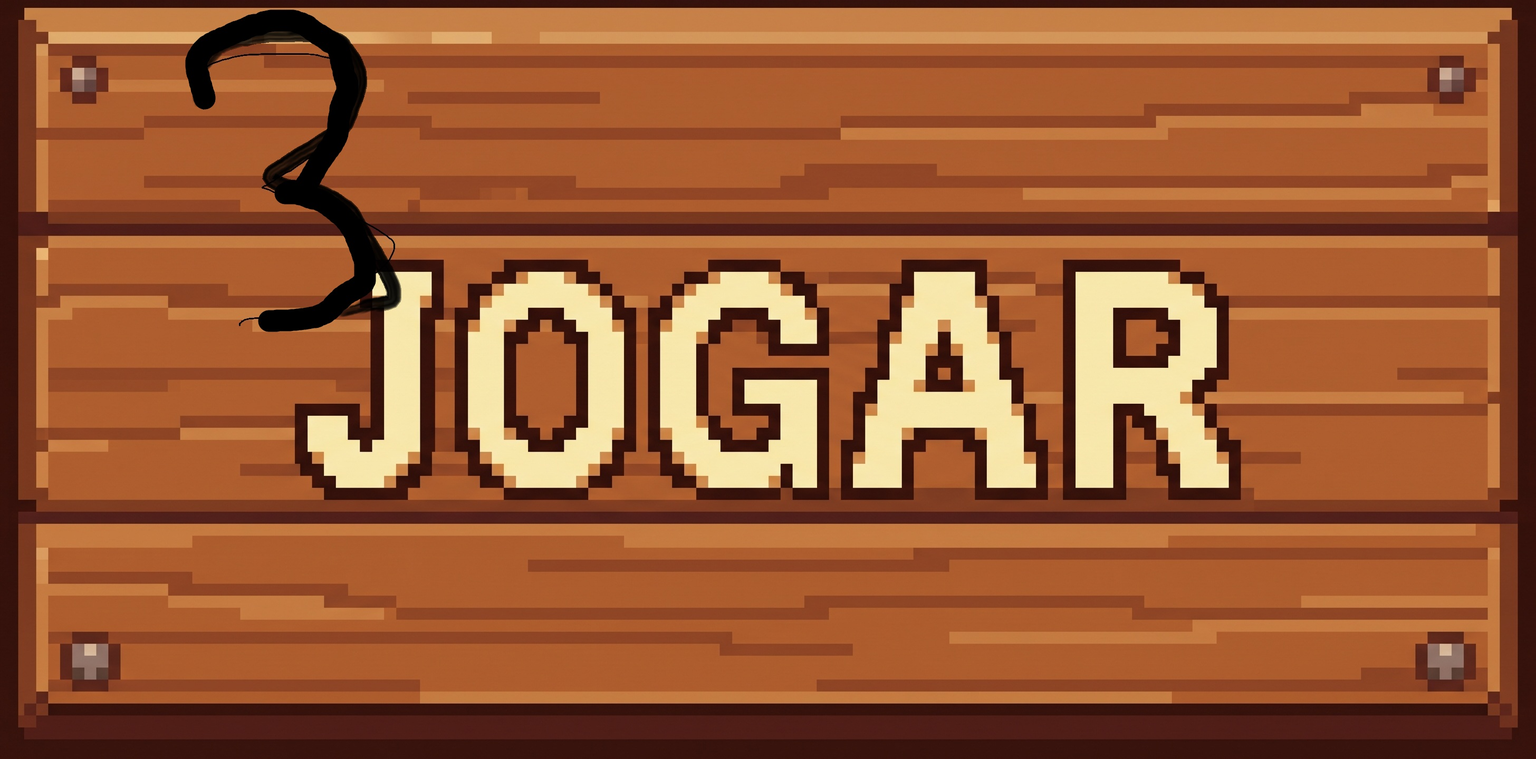
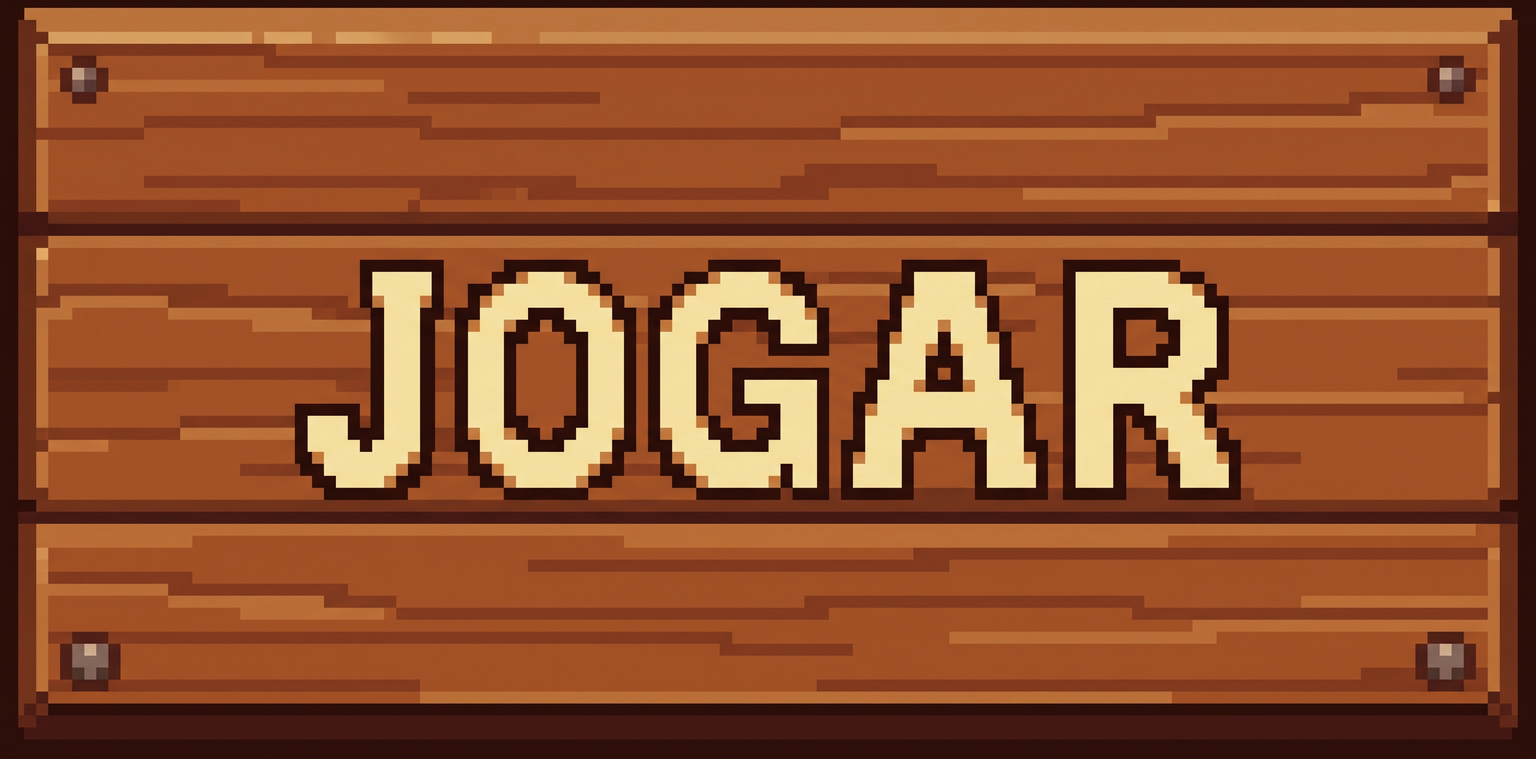
atualizações 3

Changed region(s): [[0.0938, 0.0, 0.2812, 0.4375]]

diff --git a/menu.py b/menu.py
@@ -4,7 +4,7 @@ import mira_e_atira
 tela_x, tela_y,botao_largura,botao_altura,escala = configurações.config()
 botao_largura = botao_largura/escala
 botao_altura = botao_altura/escala
-botao_path,botao_path2,botao_path3,botao_ani1,botao_ani2,botao_ani3 = configurações.paths()
+botao_path,botao_path2,botao_path3,botao_ani1,botao_ani2,botao_ani3,botao_ani4 = configurações.paths()
 
 
 tela = aroeira.Tela("PEEGLE", altura=tela_y, largura=tela_x)
@@ -26,11 +26,11 @@ def clicar(ponto):
         quit()
     elif opcao_hitbox(ponto,placeholder_botão3):
         quit()
-quadros_botao_jogar = [botao_ani1, botao_ani2, botao_ani3]
+quadros_botao_jogar = [botao_ani1, botao_ani2, botao_ani3, botao_ani4]
 sobre_botao_jogar = False
 quadro_atual = 0
 contagem_quadro = 0
-intervalo_troca_quadro = 20 
+intervalo_troca_quadro = 2
 
 
 def selecionar(ponto):
@@ -46,10 +46,12 @@ def animar():
     global quadro_atual, contagem_quadro
     if not sobre_botao_jogar:
         return
+    if quadro_atual >= len(quadros_botao_jogar) - 1:
+        return
     contagem_quadro += 1
     if contagem_quadro >= intervalo_troca_quadro:
         contagem_quadro = 0
-        quadro_atual = (quadro_atual + 1) % len(quadros_botao_jogar)
+        quadro_atual += 1
         bota1.caminho = quadros_botao_jogar[quadro_atual]
 
 

diff --git a/configurações.py b/configurações.py
@@ -22,7 +22,8 @@ def paths():
     botao1 = os.path.join(diretorio, r"graficos\botaojogar.jpg")
     botao2 = os.path.join(diretorio, r"graficos\botaosair.jpg")
     botao3 = os.path.join(diretorio, r"graficos\botaoperfil.jpg")
-    botaoANI1 = os.path.join(diretorio, r"graficos\botaojogar1.jpg")
+    botaoANI1 = os.path.join(diretorio, r"graficos\botaojogar.jpg")
     botaoANI2 = os.path.join(diretorio, r"graficos\botaojogar2.jpg")
     botaoANI3 = os.path.join(diretorio, r"graficos\botaojogar3.jpg")
-    return botao1,botao2,botao3,botaoANI1,botaoANI2,botaoANI3
+    botaoANI4 = os.path.join(diretorio, r"graficos\botaojogar4.jpg")
+    return botao1,botao2,botao3,botaoANI1,botaoANI2,botaoANI3,botaoANI4
